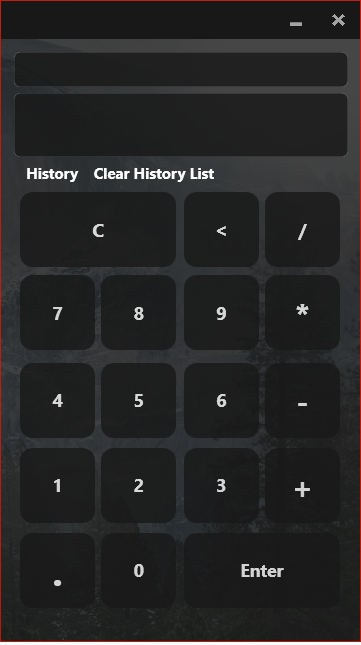
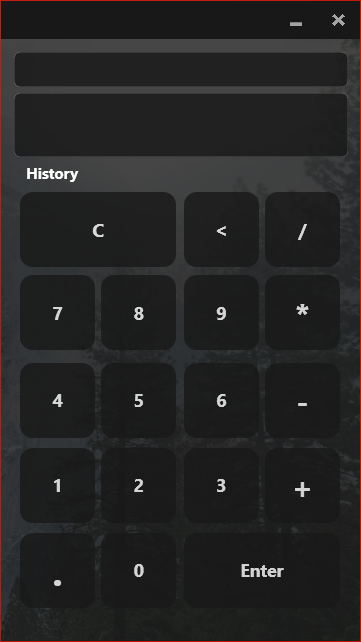
Hidding label "clear history list"

diff --git a/MainWindow.xaml b/MainWindow.xaml
@@ -37,7 +37,7 @@
                 <SolidColorBrush Color="#181818" Opacity="0.8"/>
             </ListBox.Background>
         </ListBox>
-        <Label x:Name="ClearHistoryList" Content="Clear History List" Visibility="Visible" HorizontalAlignment="Left" Height="28" Margin="69,94,0,0" VerticalAlignment="Top" Width="108" FontWeight="Bold" MouseDown="ClearHistoryList_MouseDown"/>
+        <Label x:Name="ClearHistoryList" Content="Clear History List" Visibility="Hidden" HorizontalAlignment="Left" Height="28" Margin="69,94,0,0" VerticalAlignment="Top" Width="108" FontWeight="Bold" MouseDown="ClearHistoryList_MouseDown"/>
         <mbar:AlertBarWpf x:Name="msg" VerticalAlignment="Top" Height="24" Margin="0,459,0.4,0"/>
     </Grid>
 </Controls:MetroWindow>
